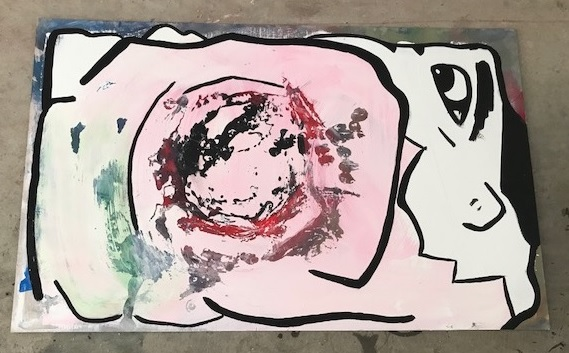
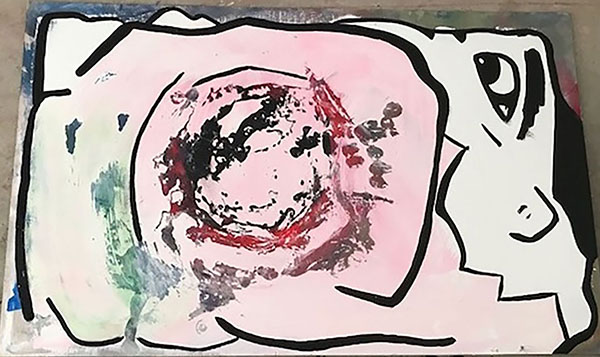
edited images to be similar sizes, added carousel to page

diff --git a/src/components/projects.js b/src/components/projects.js
@@ -1,25 +1,63 @@
 import React from 'react';
 import { Component } from 'react';
-import { Grid, Row, Col, Image } from 'react-bootstrap';
+import { Carousel, CarouselInner, CarouselItem, Container, Row, Col, Card, CardImage, CardBody, CardTitle, CardText, Button } from 'mdbreact';
 import photo3 from '../images/3.jpg'
 import photo4 from '../images/4.jpg'
+import photo5 from '../images/5.JPG'
+import photo6 from '../images/6.jpg'
+import ReactDOM from "react-dom";
 export default class Projects extends React.Component {
 
 
   render(){
     return(
-      <div>
-        <Grid>
-          <Row>
-            <Col xs={6} md={4}>
-              <Image style={{width: 300, height: 'auto'}} src= {photo3} />
-            </Col>
-            <Col xs={6} md={4}>
-              <Image style={{width:300, height: 'auto'}} src = {photo4}/>
-            </Col>
-          </Row>
-        </Grid>
-      </div>
+
+        <div className="mx-auto lineHeading">
+          <h3> <bold className="heading-decoration"> - </bold>PORTFOLIO<bold className="heading-decoration"> - </bold> </h3>
+          <br/>
+          <Container>
+
+
+
+
+
+          <Carousel
+              activeItem={2}
+              length={3}
+              slide={true}
+              showControls={false}
+              showIndicators={true}
+              multiItem >
+              <CarouselInner>
+                <Row className="carouselImage">
+                  <CarouselItem itemId="1">
+                    <Col md="4">
+                      <Card className="mb-1">
+                      <CardImage className="img-fluid" src={photo3}/>
+                      </Card>
+                    </Col>
+                  </CarouselItem>
+                  <CarouselItem itemId="2">
+                    <Col md="4">
+                      <Card className="mb-1">
+                      <CardImage className="img-fluid" src={photo4} />
+                      </Card>
+                    </Col>
+                  </CarouselItem>
+                  <CarouselItem itemId="3">
+                    <Col md="4">
+                      <Card className="mb-1">
+                      <CardImage className="img-fluid" src={photo5} />
+                      </Card>
+                    </Col>
+                  </CarouselItem>
+                </Row>
+              </CarouselInner>
+
+            </Carousel>
+
+        </Container>
+        </div>
     )
   }
 

diff --git a/src/App.css b/src/App.css
@@ -1,32 +1,18 @@
 @import url('https://fonts.googleapis.com/css?family=Raleway:300,400');
-.App {
-  text-align: center;
-}
+@import url('https://fonts.googleapis.com/css?family=Catamaran:800');
+@import url('https://fonts.googleapis.com/css?family=Megrim');
+@import url('https://fonts.googleapis.com/css?family=Loved+by+the+King');
 
-.App-logo {
-  animation: App-logo-spin infinite 20s linear;
-  height: 40vmin;
-}
 
-.App-header {
-  background-color: #282c34;
-  min-height: 100vh;
-  display: flex;
-  flex-direction: column;
-  align-items: center;
-  justify-content: center;
-  font-size: calc(10px + 2vmin);
-  color: white;
-}
 
 .container {
 width: 100%;
-height: 800px;
+height: 500px;
 background-color: transparent;
 float: left;
-margin: 0px;
 background-size: cover;
 overflow: hidden;
+margin-bottom: 50px;
 }
 
 .nav-bar {
@@ -36,18 +22,17 @@ float:left;
 
 }
 .heading-name {
-  font-family: "Raleway", sans-serif;
-  font-size: 72px;
-  font-weight: 700;
-  letter-spacing: 10px;
-  text-indent: 12.5px;
-  color: black;
-  font-size: 30px;
+  font-family: "Megrim", cursive;
+  font-size: 35px;
+  letter-spacing:5px;
+  text-indent: 5.5px;
+  color:black;
   text-align: center;
   margin-top: 30%;
+
   text-decoration: underline;
   text-decoration-color:  #19A96A;
-  text-decoration-style: double;
+  text-decoration-style:  double;
 }
 .social-icons {
 float: right;
@@ -58,12 +43,19 @@ color: black;
 }
 
 .about-heading {
-  font-family: "Raleway", sans-serif;
-  font-size: 20px;
+  font-family: "Loved by the King", cursive;
+  font-size: 40px;
   text-align: center;
+
 
 }
 
+.carouselImage {
+  width: fill-available;
+  height: 100%;
+  
+
+}
 
 .heading-decoration{
   color: #19A96A;
@@ -73,11 +65,12 @@ color: black;
   color: #61dafb;
 }
 
-@keyframes App-logo-spin {
-  from {
-    transform: rotate(0deg);
-  }
-  to {
-    transform: rotate(360deg);
-  }
+.lineHeading{
+  font-family: "Loved by the King", cursive;
+  text-align: center;
+  padding: 0px 200px;
+  display: block;
+  font-size: 25px;
+
+
 }

diff --git a/src/components/about.js b/src/components/about.js
@@ -10,8 +10,8 @@ export default class About extends React.Component {
   render(){
     return(
       <div className='about'>
-      <h3 className = "about-heading"> <bold className="heading-decoration"> - </bold> ABOUT ALLISON <bold className="heading-decoration"> - </bold> </h3>
-      <p> Lorem ipsum dolor sit amet, consectetur adipiscing elit, sed do eiusmod tempor incididunt ut labore et dolore magna aliqua. Ullamcorper velit sed ullamcorper morbi tincidunt ornare massa eget. Iaculis at erat pellentesque adipiscing commodo. Lacus viverra vitae congue eu consequat ac felis donec et. Eleifend mi in nulla posuere.</p>
+      <h3 className = "lineHeading"> <bold className="heading-decoration"> - </bold> ABOUT ALLISON <bold className="heading-decoration"> - </bold> </h3>
+      <p className='lineHeading'> Lorem ipsum dolor sit amet, consectetur adipiscing elit, sed do eiusmod tempor incididunt ut labore et dolore magna aliqua. Ullamcorper velit sed ullamcorper morbi tincidunt ornare massa eget. Iaculis at erat pellentesque adipiscing commodo. Lacus viverra vitae congue eu consequat ac felis donec et. Eleifend mi in nulla posuere.</p>
       </div>
 
 

diff --git a/src/App.js b/src/App.js
@@ -4,23 +4,20 @@ import './App.css';
 import Navbar from './components/navbar.js'
 import About from './components/about.js'
 import Projects from './components/projects.js'
+import Instagram from './components/instagram.js'
+import 'jquery';
 class App extends Component {
+
+  
   render() {
     return (
-      <div className="App">
-      
-          <Navbar/> <br/> <br/>
-          <About />
-          <Projects/>
-          <a
-            className="App-link"
-            href="https://reactjs.org"
-            target="_blank"
-            rel="noopener noreferrer"
-          >
+      <div className="main App">
 
-            Learn React
-          </a>
+          <Navbar/>
+          <About/>
+          <Projects/>
+          <Instagram/>
+
       </div>
     );
   }

diff --git a/src/components/instagram.js b/src/components/instagram.js
@@ -1,0 +1,30 @@
+import React from 'react';
+import { Component } from 'react';
+import InstagramEmbed from 'react-instagram-embed'
+
+
+
+export default class Instagram extends React.Component{
+
+
+    render(){
+      return(
+        <div>
+        <InstagramEmbed
+  url='https://www.instagram.com/alpantsmandy/'
+  maxWidth={320}
+  hideCaption={false}
+  containerTagName='div'
+  protocol=''
+  injectScript
+  onLoading={() => {}}
+  onSuccess={() => {}}
+  onAfterRender={() => {}}
+  onFailure={() => {}}
+/>
+</div> 
+      )
+    }
+
+
+}

diff --git a/src/components/navbar.js b/src/components/navbar.js
@@ -24,7 +24,7 @@ export default class Navbar extends React.Component{
 
       <div style={{ backgroundImage: `url(${photo})`}} className="container">
       <link rel="stylesheet" href="https://use.fontawesome.com/releases/v5.4.2/css/all.css" integrity="sha384-/rXc/GQVaYpyDdyxK+ecHPVYJSN9bmVFBvjA/9eOB+pb3F2w2N6fc5qB9Ew5yIns" crossorigin="anonymous"/>
-
+      
 
       <div className="nav-bar">
        <HamburgerMenu

diff --git a/src/index.js b/src/index.js
@@ -2,7 +2,9 @@ import React from 'react';
 import ReactDOM from 'react-dom';
 import './index.css';
 import App from './App';
+import 'jquery';
 import * as serviceWorker from './serviceWorker';
+
 
 ReactDOM.render(<App />, document.getElementById('root'));
 
